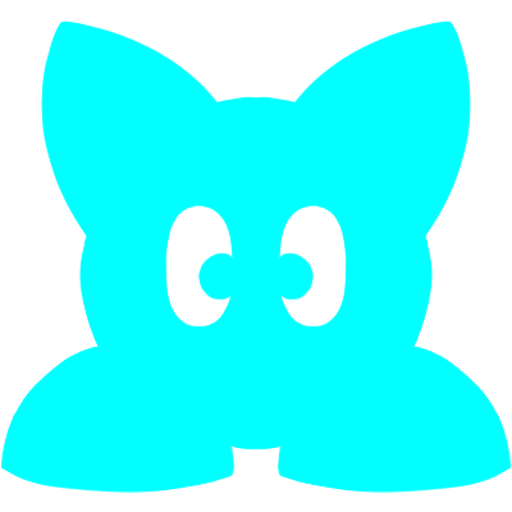
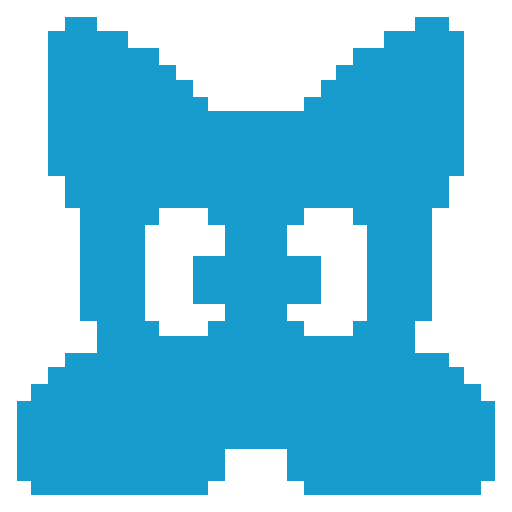
Completely new redesign

diff --git a/globals.css b/globals.css
@@ -1,9 +1,5 @@
-  /*------*/
- /* root */
-/*------*/
-
 :root {
-	--primary-color: aqua;
+	--primary-color: #189bcd;
 	--secondary-color: black;
 }
 
@@ -17,126 +13,29 @@ body {
 	font-family: Verdana, sans-serif;
 	font-size: x-large;
 	color: var(--primary-color);
-	background-color: black;
+	background-color: var(--secondary-color);
+	max-width: 1000px;
+	margin: auto; padding: 1em;
 }
 
-h1, h2, h3, h4, h5, h6 { font-weight: 400; font-style: normal; }
+h1, h2, h3, h4, h5, h6 { font-weight: 400; }
+
 p { line-height: 1.5; }
+
 a {
 	color: var(--primary-color);
 	text-decoration: underline;
 	text-decoration-thickness: 2px;
 }
 
-.wrapper {
-	max-width: 1500px;
-	margin: auto;
-	min-height: 100vh;
-	display: grid;
-	grid-template-rows: auto 1fr auto;
-	padding: 0 1em;
-	box-sizing: border-box;
-}
-
-.main-header { padding: 1em 0; }
-.main-header > h1 {
-	line-height: 128px;
-	margin: 0;
-	padding: 0;
-}
-.main-header > h1 > span {
-	display: inline-block;
-	position: relative;
-	color: var(--secondary-color);
-	z-index: 1;
-}
-.main-header > h1 > span::before {
-	z-index: -1;
-	content: " ";
-	display: block;
-	position: absolute;
-	background-color: var(--primary-color);
-	border-radius: 50%;
-	width: 115px;
-	height: 115px;
-	top: 0; left: 0; right: 0; bottom: 0;
-	transform: translate(-5px,10px);
-}
-
-  /*------------*/
- /* front page */
-/*------------*/
-
-.portrait {
-	width: 128px; height: 128px; line-height: 128px;
-	background-color: var(--primary-color);
-	overflow: hidden;
-    border: 0;
-    padding: 0;
-	border: 3px solid var(--primary-color);
-	border-radius: 50%;
-	margin: 20px;
-	display: grid;
-	place-items: center;
-}
-.portrait::before {
-	content: " ";
-	display; block;
-	position: absolute;
-	border: 3px solid var(--primary-color);
-	width: 150px;
-	height: 150px;
-	border-radius: 100%;
-}
-
-#menu > ul {
-	padding: 0;
-	display: flex;
-	flex-direction: row;
-	flex-wrap: wrap;
-	list-style-type: none;
-	width: fit-content;
-	margin: auto;
-	justify-content: center;
-}
-
-#menu li {
-	width: fit-content;
-	display: block;
-}
-
-.menu-item {
-	width: 128px; height: 128px; line-height: 128px;
-	background-color: var(--secondary-color);
-	color: var(--primary-color);
-	display: block;
-	text-align: center;
-	text-decoration: none;
-	border: 3px solid var(--primary-color);
-	border-radius: 50%;
-	margin: 20px;
-}
-.menu-item:hover {
-	background-color: var(--primary-color);
-	color: var(--secondary-color);
-}
-
-  /*-----*/
- /* art */
-/*-----*/
-
 .art-gallery {
-	display: grid;
-	grid-auto-rows: 1fr;
-	grid-template-columns: repeat(4, 1fr);
-	width: fit-content;
+	display: flex;
+	flex-wrap: wrap;
 	margin: auto;
-	justify-content: space-between;
-	width: 100%;
+	justify-content: space-around;
 }
 
 .art-box > div {
-	border-radius: 10px;
 	height: 300px;
 	width: 300px;
 	overflow: hidden;
@@ -158,36 +57,3 @@ a {
 	height: auto;
 	margin: auto;
 }
-
-  /*------*/
- /* blog */
-/*------*/
-
-.blog-list {
-	list-style-type: none;
-	margin: 4em 0;
-	padding: 0;
-	max-width: 750px;
-}
-.blog-list a {
-	display: block;
-	margin-bottom: 8px;
-	margin-top: 1em;
-}
-.blog-list span {
-	font-size: smaller;
-    opacity: 0.75;
-}
-
-.blog-post {
-	padding-top: 40px;
-	max-width: 750px;
-}
-
-  /*-----------------------*/
- /* variable screen sizes */
-/*-----------------------*/
-
-@media screen and (max-width: 1500px) { .art-gallery { grid-template-columns: repeat(3, 1fr); } }
-@media screen and (max-width: 1125px) { .art-gallery { grid-template-columns: repeat(2, 1fr); } }
-@media screen and (max-width: 750px)  { .art-gallery { grid-template-columns: repeat(1, 1fr); } }

diff --git a/about.html b/about.html
@@ -1,49 +1,4 @@
-<!DOCTYPE html>
-<html lang="en">
-<head>
-	<title>About | Pancatime</title> 
-	<meta charset="UTF-8">
-	<meta name="viewport"    content="width=device-width, initial-scale=1.0">
-	<meta name="description" content="Background information about Panca and the website.">
-	<meta name="robots"      content="all">
-    <!-- styles -->
-	<link rel="stylesheet" href="normalize.css">
-	<link rel="stylesheet" href="globals.css">
-    <!-- favicon -->
-    <link rel="apple-touch-icon" sizes="180x180" href="apple-touch-icon.png">
-    <link rel="icon" type="image/png" sizes="32x32" href="favicon-32x32.png">
-    <link rel="icon" type="image/png" sizes="16x16" href="favicon-16x16.png">
-    <link rel="manifest" href="site.webmanifest">
-    <!-- js -->
-	<script src="color.js"></script>
-</head>
-<body class="retro text-shadow">
-
-<div class="wrapper">
-	<header class="main-header">
-		<h1>about</h1>
-		<nav><a class="menu-item" href="index.html">back</a></nav>
-	</header>
-	<main style="display: grid; place-items: center;">
         <article style="max-width: 750px;">
-            <p>
-                I'm a guy from Norway who wants to create something interesting and live an honest life. I took an interest in computers at an early age which led me on a path of computer programming and various digital arts. I have a Bachelor's Degree in computer science and work with computers. A lot of computers indeed.
-            </p>
-            <p>
-                In my 20s I'm realizing that life is more and more important and that time is precious, which is why I'm cutting out distractions to spend my time with things that really matter. With this website, I hope to be able to share some of the knowledge I have to help out, especially for those on a similar path. I will also use this website to showcase my creative projects and achievements.
-            </p>
-            <p>
-                At the time of writing I choose not to use my real name, and I instead go by a character I created called <i>panca</i> - a fictional space robot. Add "ke" to the end of my name to discover it's fascinating origin.
-            </p>
-            <p>
-                I will probably re-write this at some point, but at the moment this will do. Feel free to reach me at <a href="mailto:pancatime@proton.me"><i>pancatime@proton.me</i></a>
-            </p>
-            <p>
-                Apr 3, 2026
-            </p>
-            <p>
-                /panca
-            </p>
         </article>
 	</main>
 </div>

diff --git a/index.html b/index.html
@@ -14,24 +14,39 @@
     <link rel="icon" type="image/png" sizes="32x32" href="favicon-32x32.png">
     <link rel="icon" type="image/png" sizes="16x16" href="favicon-16x16.png">
     <link rel="manifest" href="site.webmanifest">
-    <!-- js -->
-	<script src="color.js"></script>
 </head>
 <body>
 
-<div class="wrapper" style="grid-template-rows: auto;">
-	<header class="main-header" style="position: absolute; z-index: 1"> <h1>little <span>blue</span> creature</h1> </header>
-	<main style="display: grid; place-items: center; margin: 200px 0">
-		<nav id="menu">
-			<ul>
-				<li><a class="menu-item" href="about.html">about</a></li>
-				<li><div class="portrait"><img src="media/silhouette_400x400.png" width="80" height="80" draggable="false" alt="Blue creature"/></div></li>
-				<li><a class="menu-item" href="art.html">art</a></li>
-				<li><a class="menu-item" href="blog.html">blog</a></li>
-			</ul>
-		</nav>
+	<nav>
+		<ul style="list-style-type: none; display: flex; justify-content: space-around; margin-bottom: 128px;">
+			<li><a href="index.html">home</a></li>
+			<li><a href="blog.html">blog</a></li>
+			<li><a href="art.html">art</a></li>
+			<li><a href="https://github.com/lefaber/myepicwebsite" target="_blank">github</a></li>
+		</ul>
+	</nav>
+
+	<img src="media/banner.png" width="64" height="64" alt="website banner, the blue creature"
+		 style="width: 192px; height: 192px;
+		        margin: auto; display: block;
+		        image-rendering: pixelated;" />
+  
+	<header><h1 style="text-align: center;">little blue creature</h1></header>
+
+	<main>
+		<p>I'm a guy from Norway who wants to create something interesting, so I will use this website to showcase my creative projects. Feel free to reach me at <a href="mailto:pancatime@proton.me"><i>pancatime@proton.me</i></a></p>
+
+		<h2>blog</h2>
+
+		<ul style="line-height: 1.5;">
+			<li><a href="posts/devblog-26-03-15.html"> Devblog: Start of "Grenade Jumper" Game </a></li>
+			<li><a href="posts/i-will-not-use-ai-for-creative-projects.html"> I Will Not Use AI For Creative Projects </a></li>
+			<li><a href="posts/having-a-voice-on-the-internet.html"> Having a Voice on the Internet </a></li>
+		</ul>
+
+		<h2>art</h2>
+
 	</main>
-</div>
 
 <!-- the inner workings of my mind are an enigma. I thinks therefore I ams. I have no freaking idea! #swrf -->
 

diff --git a/art.html b/art.html
@@ -20,11 +20,17 @@
 </head>
 <body class="retro text-shadow">
 
-<div class="wrapper">
-	<header class="main-header">
-		<h1>art</h1>
-		<nav><a class="menu-item" href="index.html">back</a></nav>
-	</header>
+	<nav>
+		<ul style="list-style-type: none; display: flex; justify-content: space-around; margin-bottom: 128px;">
+			<li><a href="index.html">home</a></li>
+			<li><a href="blog.html">blog</a></li>
+			<li><a href="art.html">art</a></li>
+			<li><a href="https://github.com/lefaber/myepicwebsite" target="_blank">github</a></li>
+		</ul>
+	</nav>
+
+	<header class="main-header"><h1 style="text-align: center;">art</h1></header>
+
 	<main>
 		<div class="art-gallery">
 			<div class="art-box">
@@ -53,7 +59,6 @@
 			</div>
 		</div>
 	</main>
-</div>
 
 </body>
 </html>
